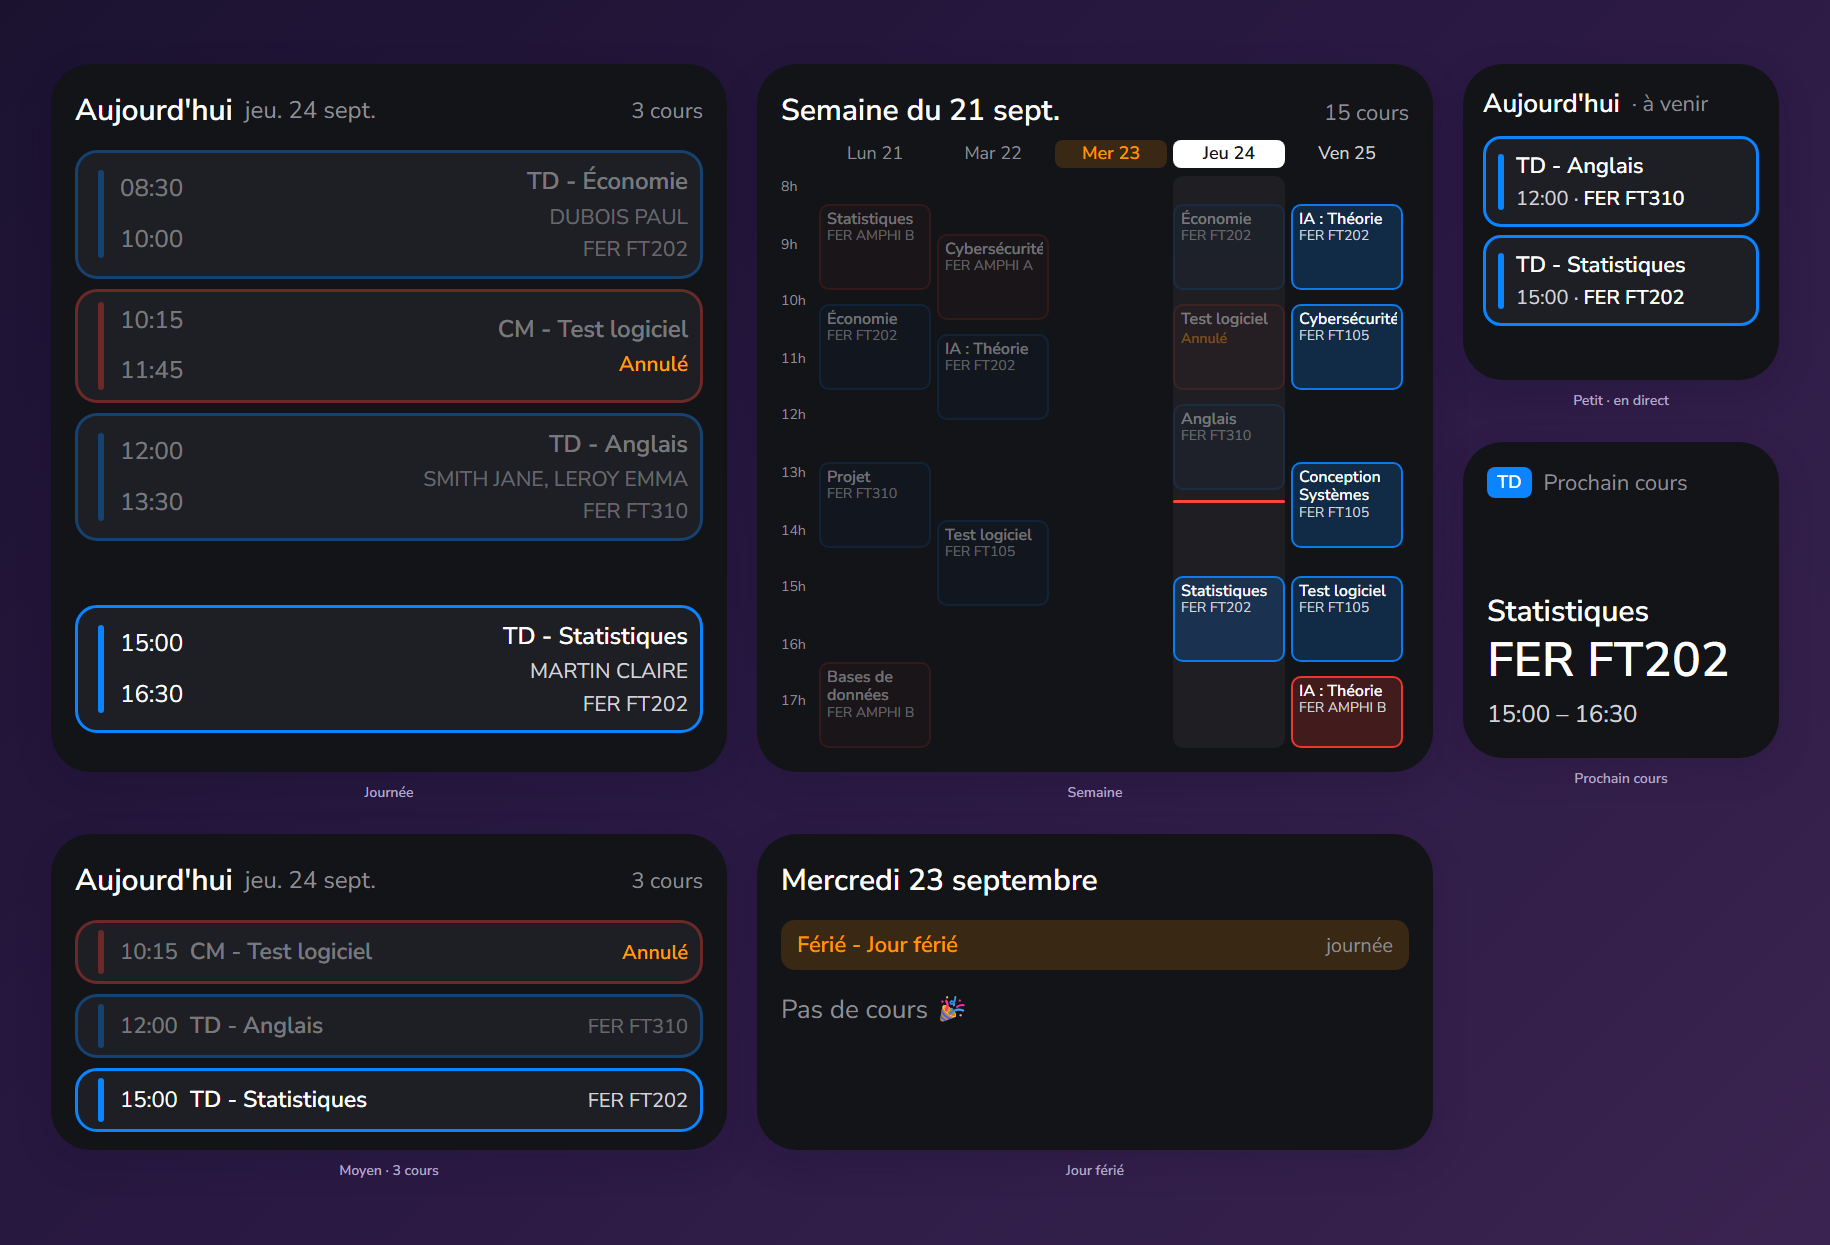
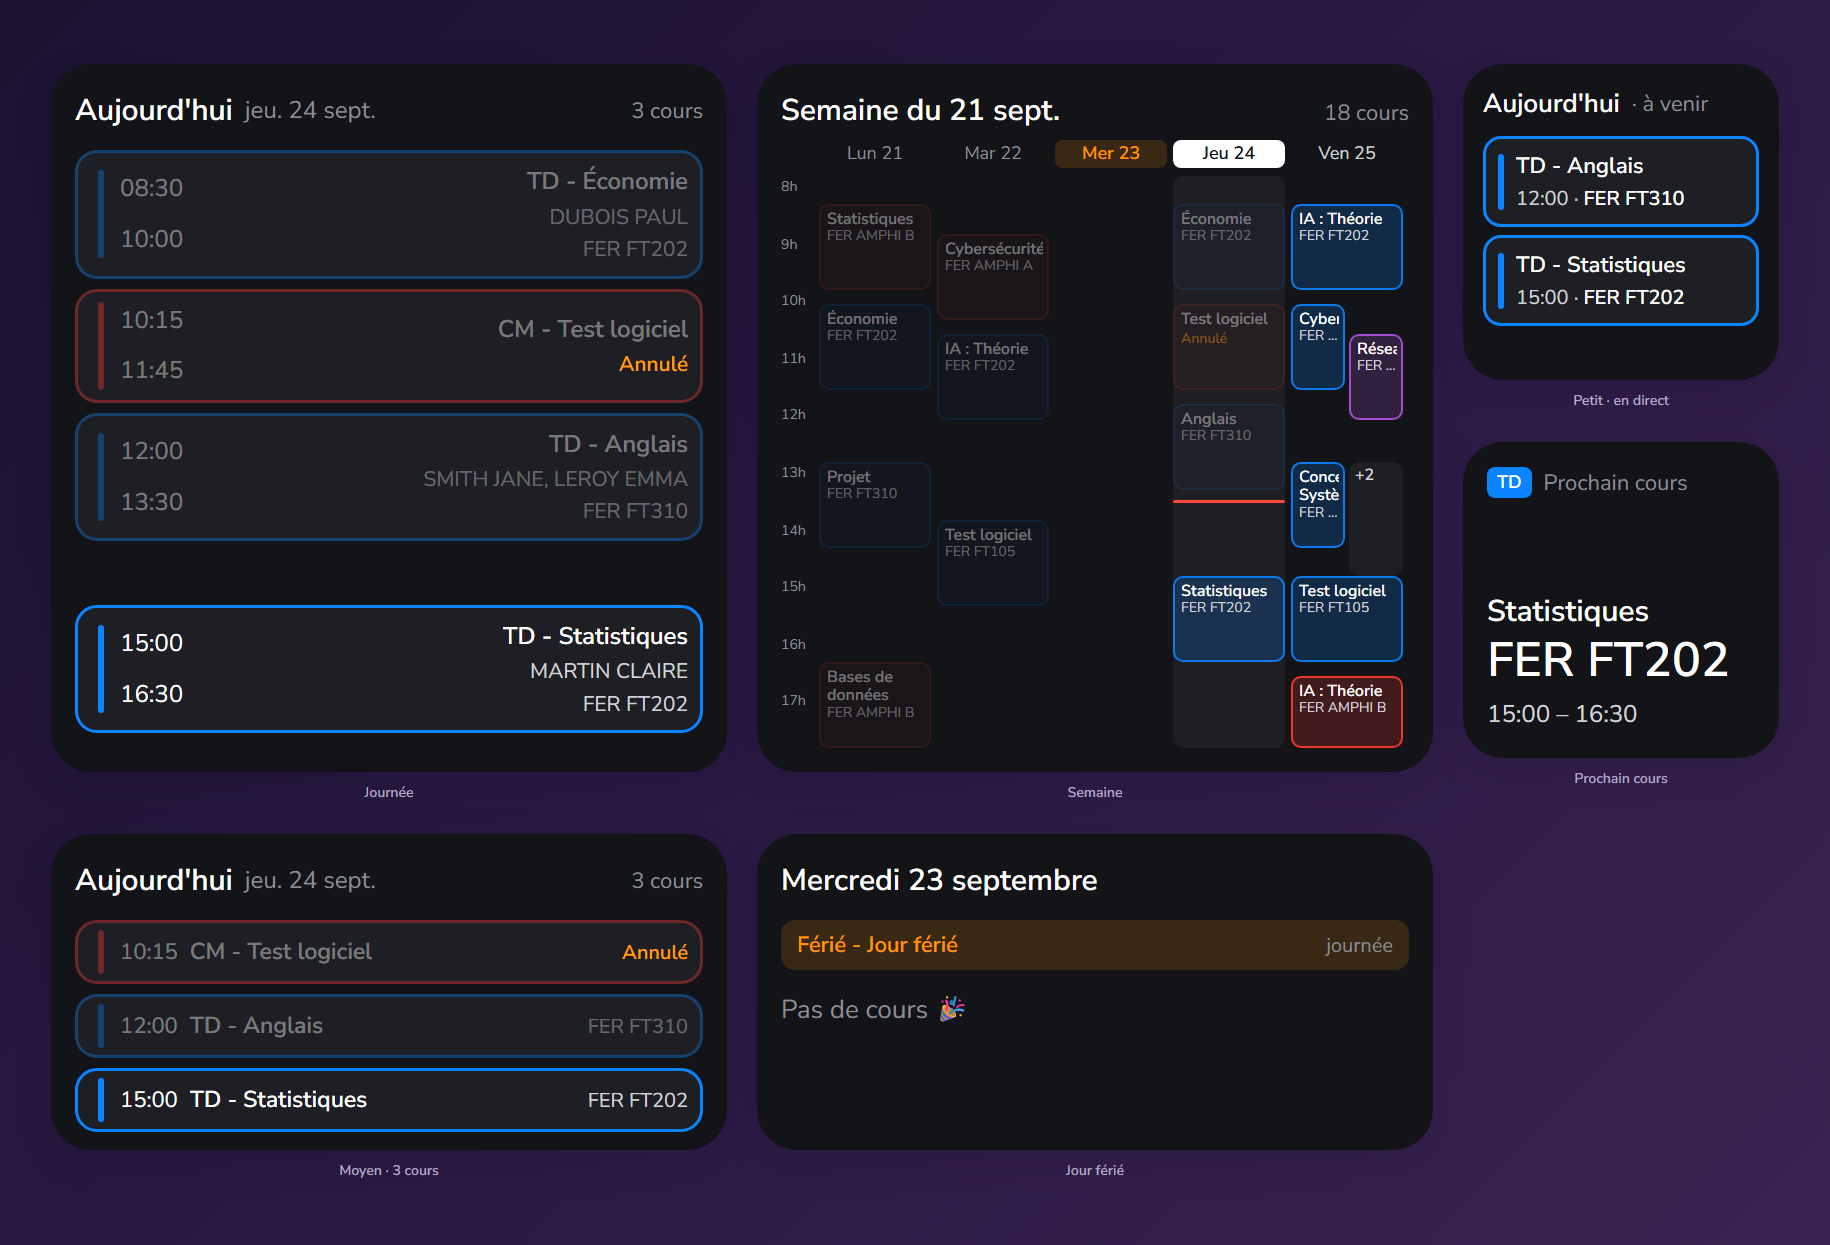
feat: cap simultaneous courses at 2 lanes

Changed region(s): [[0.7164, 0.3663, 0.7787, 0.4578], [0.7164, 0.2442, 0.7787, 0.3357]]

diff --git a/docs/preview.html b/docs/preview.html
@@ -198,7 +198,8 @@
   .block .t { font-weight: 600; font-size: calc(8 * var(--u)); color: var(--text); line-height: 1.15;
                display: -webkit-box; -webkit-box-orient: vertical; -webkit-line-clamp: 2; overflow: hidden; }
   .block.live .t { color: var(--now); }
-  .block .r { font-size: calc(7 * var(--u)); color: var(--sub); line-height: 1.2; }
+  .block .r { font-size: calc(7 * var(--u)); color: var(--sub); line-height: 1.2;
+               white-space: nowrap; overflow: hidden; text-overflow: ellipsis; }
   .block .cancelled { font-weight: 600; font-size: calc(7 * var(--u)); color: var(--cancel); }
   .block.done { opacity: 0.4; }
   .now-line { position: absolute; left: 0; right: 0; height: calc(1.5 * var(--u)); border-radius: calc(0.75 * var(--u)); background: var(--now-line); }
@@ -294,7 +295,10 @@
     "Ven 25": [
       { cat: "TD", mod: "IA : Théorie",      start: "08:30", end: "10:00", room: "FER FT202" },
       { cat: "TD", mod: "Cybersécurité",     start: "10:15", end: "11:45", room: "FER FT105" },
+      { cat: "TP", mod: "Réseaux",           start: "10:45", end: "12:15", room: "FER FT310" },   // simultané : côte à côte
       { cat: "TD", mod: "Conception Systèmes", start: "13:00", end: "14:30", room: "FER FT105" },
+      { cat: "TP", mod: "Projet",            start: "13:00", end: "14:30", room: "FER FT310" },   // 3 cours simultanés : 1 + « +2 »
+      { cat: "Examen", mod: "Anglais",       start: "13:30", end: "15:00", room: "FER AMPHI A" },
       { cat: "TD", mod: "Test logiciel",     start: "15:00", end: "16:30", room: "FER FT105" },
       { cat: "CM", mod: "IA : Théorie",      start: "16:45", end: "18:00", room: "FER AMPHI B" },
     ],
@@ -383,7 +387,8 @@
   function buildWeek(scope) {
     const w = widget(scope, "large");
     const head = el("div", "week-head");
-    head.append(el("span", "t", "Semaine du 21 sept."), el("span", "c", "15 cours"));
+    const count = Object.values(WEEK).flat().filter(e => !e.cancelled).length;
+    head.append(el("span", "t", "Semaine du 21 sept."), el("span", "c", `${count} cours`));
     w.append(head);
 
     const startMin = 8 * 60, endMin = 18 * 60;
@@ -418,9 +423,21 @@
     days.forEach(d => {
       const col = el("div", "col-day" + (d === TODAY ? " today" : ""));
       col.style.width = px(colW);
-      WEEK[d].forEach(e => {
-        const top = Math.round((mins(e.start) - startMin) * scale);
-        const h = Math.max(10, Math.round((mins(e.end) - startMin) * scale) - top);
+      const toY = t => Math.round((mins(t) - startMin) * scale);
+      layoutDay(WEEK[d], toY, gridH).forEach(g => {
+        const n = g.lanes.length + (g.more ? 1 : 0);
+        const laneW = Math.floor((colW - (n - 1) * LANE_GAP) / n);
+        g.lanes.forEach((lane, k) => lane.forEach(p => col.append(block(d, p.e, g.top + p.y, p.h, n > 1 ? k * (laneW + LANE_GAP) : null, laneW))));
+        if (g.more) {
+          const m = el("div", "block");
+          m.style.cssText = `top:${px(g.top)};height:${px(g.h)};left:${px((n - 1) * (laneW + LANE_GAP))};right:auto;width:${px(laneW)};background:var(--today-col)`;
+          const t = el("div", "t", `+${g.more}`); t.style.color = "var(--sub)";
+          m.append(t);
+          col.append(m);
+        }
+      });
+      // left : null → pleine largeur de la colonne ; sinon sous-colonne (cours simultanés)
+      function block(d, e, top, h, left, width) {
         const past = days.indexOf(d) < days.indexOf(TODAY) || (d === TODAY && mins(e.end) <= NOW);
         const live = d === TODAY && !e.cancelled && mins(e.start) <= NOW && mins(e.end) > NOW;
         const done = past || e.cancelled;
@@ -434,8 +451,9 @@
           if (e.cancelled) b.append(el("div", "cancelled", "Annulé"));
           else if (e.room) b.append(el("div", "r", e.room));
         }
-        col.append(b);
-      });
+        if (left !== null) { b.style.left = px(left); b.style.right = "auto"; b.style.width = px(width); }
+        return b;
+      }
       // Trait "maintenant" : seulement aujourd'hui, et seulement dans un trou
       if (d === TODAY) {
         const busy = WEEK[d].some(e => mins(e.start) <= NOW && mins(e.end) > NOW);
@@ -521,6 +539,49 @@
     });
     w.append(stack);
     return w;
+  }
+
+  // Placement des cours d'une journée — même algorithme que layoutDay dans celcat-widget.js :
+  // les cours simultanés partagent la colonne, « +N » au-delà de MAX_LANES.
+  const MAX_LANES = 2, LANE_GAP = 2;
+  function layoutDay(evts, y, gridH) {
+    const sorted = evts.slice().sort((a, b) => mins(a.start) - mins(b.start) || mins(b.end) - mins(a.end));
+    const out = [];
+    let cursor = 0;
+    for (let i = 0; i < sorted.length;) {
+      const group = [sorted[i]];
+      let end = sorted[i].end;
+      for (i++; i < sorted.length && mins(sorted[i].start) < mins(end); i++) {
+        group.push(sorted[i]);
+        if (mins(sorted[i].end) > mins(end)) end = sorted[i].end;
+      }
+      const top = Math.max(y(group[0].start), cursor);
+      const h = Math.min(Math.max(10, y(end) - top), gridH - top);
+      if (h <= 0) continue;
+      const lanes = [];
+      for (const e of group) {
+        let lane = lanes.find(l => mins(l[l.length - 1].end) <= mins(e.start));
+        if (!lane) lanes.push(lane = []);
+        lane.push(e);
+      }
+      let shown = lanes, more = 0;
+      if (lanes.length > MAX_LANES) {
+        shown = lanes.slice(0, MAX_LANES - 1);
+        more = lanes.slice(MAX_LANES - 1).reduce((n, l) => n + l.length, 0);
+      }
+      const placed = shown.map(lane => {
+        let c = 0;
+        return lane.map(e => {
+          const t = Math.max(y(e.start) - top, c);
+          const eh = Math.min(Math.max(10, y(e.end) - top - t), h - t);
+          c = t + Math.max(eh, 0);
+          return { e, y: t, h: eh };
+        }).filter(p => p.h > 0);
+      });
+      out.push({ top, h, lanes: placed, more });
+      cursor = top + h;
+    }
+    return out;
   }
 
   function hexA(hex, a) {

diff --git a/test/widget.test.js b/test/widget.test.js
@@ -676,10 +676,20 @@ const ok = (name, cond, extra = "") => { if (cond) { pass++; console.log("  OK  
        JSON.stringify(cols.map(c => [c.size && c.size.height, filled(c)])));
 
     err = await run([sim("211", 9, 0, 11, 0, "Cours A"), sim("212", 9, 0, 11, 0, "Cours B"),
+                     sim("213", 9, 30, 10, 30, "Cours C")]);
+    const t3 = global.texts();
+    ok("3 cours simultanés : 1 affiché + « +2 »", !err && t3.includes("Cours A") && t3.includes("+2") &&
+       !t3.includes("Cours B") && !t3.includes("Cours C"), (err && err.message) || JSON.stringify(t3));
+    const row3 = global.widget.all().find(i => i.kind === "stack" && !i.vertical &&
+                                             i.items.some(c => c.kind === "stack" && c.items.some(t => t.text === "+2")));
+    const lanes3 = row3 ? row3.items.filter(c => c.kind === "stack") : [];
+    ok("  2 colonnes seulement (lisibles)", lanes3.length === 2, lanes3.length + " colonnes");
+
+    err = await run([sim("211", 9, 0, 11, 0, "Cours A"), sim("212", 9, 0, 11, 0, "Cours B"),
                      sim("213", 9, 0, 11, 0, "Cours C"), sim("214", 9, 30, 10, 30, "Cours D")]);
     const t4 = global.texts();
-    ok("4 cours simultanés : 2 affichés + « +2 »", !err && t4.includes("+2") && t4.includes("Cours A") && t4.includes("Cours B") &&
-       !t4.includes("Cours C"), (err && err.message) || JSON.stringify(t4));
+    ok("4 cours simultanés : 1 affiché + « +3 »", !err && t4.includes("+3") && t4.includes("Cours A") &&
+       !t4.includes("Cours B"), (err && err.message) || JSON.stringify(t4));
     global.args.widgetParameter = "";
   }
 

diff --git a/celcat-demo.js b/celcat-demo.js
@@ -11,7 +11,7 @@
 //  Fichier généré par tools/build-demo.js : ne pas modifier à la main.
 // ============================================================
 
-const VERSION = "1.3.2";         // version de ce script (comparée à celle du dépôt)
+const VERSION = "1.3.3";         // version de ce script (comparée à celle du dépôt)
 const REPO = "https://github.com/Samito-05/cy-edt-widget";
 const REPO_RAW = "https://raw.githubusercontent.com/Samito-05/cy-edt-widget/main/celcat-widget.js";
 
@@ -996,8 +996,9 @@ function addWeekBlock(col, e, width, height, now) {
 }
 
 // Cours qui se chevauchent (deux groupes, TP en parallèle…) : côte à côte.
-// Au-delà de MAX_LANES colonnes, les dernières sont résumées en « +N ».
-const MAX_LANES = 3;
+// Au-delà de MAX_LANES colonnes, les dernières sont résumées en « +N » : à 3 colonnes,
+// chacune ne fait plus que ~17 pt et les noms deviennent illisibles.
+const MAX_LANES = 2;
 const LANE_GAP = 2;
 
 // Placement vertical des cours d'une journée, en points depuis le haut de la grille.

diff --git a/celcat-widget.js b/celcat-widget.js
@@ -17,7 +17,7 @@
 //  - Ajoute un widget Scriptable (grand conseillé) et choisis ce script.
 // ============================================================
 
-const VERSION = "1.3.2";         // version de ce script (comparée à celle du dépôt)
+const VERSION = "1.3.3";         // version de ce script (comparée à celle du dépôt)
 const REPO = "https://github.com/Samito-05/cy-edt-widget";
 const REPO_RAW = "https://raw.githubusercontent.com/Samito-05/cy-edt-widget/main/celcat-widget.js";
 
@@ -950,8 +950,9 @@ function addWeekBlock(col, e, width, height, now) {
 }
 
 // Cours qui se chevauchent (deux groupes, TP en parallèle…) : côte à côte.
-// Au-delà de MAX_LANES colonnes, les dernières sont résumées en « +N ».
-const MAX_LANES = 3;
+// Au-delà de MAX_LANES colonnes, les dernières sont résumées en « +N » : à 3 colonnes,
+// chacune ne fait plus que ~17 pt et les noms deviennent illisibles.
+const MAX_LANES = 2;
 const LANE_GAP = 2;
 
 // Placement vertical des cours d'une journée, en points depuis le haut de la grille.

diff --git a/README.md b/README.md
@@ -27,7 +27,7 @@ Tes cours directement sur l'écran d'accueil : horaires, salles, type de cours, 
 
 - **Vue du jour** — cours du jour (ou du prochain jour de cours), cartes sombres/claires avec bordure colorée par type : CM rouge, TD bleu, TP violet, examen orange. Le vert est réservé au cours en cours : une couleur verte envoyée par CELCAT est remplacée par du violet.
 - **Mode live** (petit widget) — chaque cours disparaît 30 min après son début pour laisser la place au suivant et à sa salle.
-- **Vue semaine** — planning de la semaine sur un grand widget (trait rouge sur l'heure courante), avec possibilité d'afficher les semaines suivantes. Les cours simultanés (groupes, TP en parallèle) s'affichent côte à côte ; au-delà de 3, un bloc « +N » résume le reste.
+- **Vue semaine** — planning de la semaine sur un grand widget (trait rouge sur l'heure courante), avec possibilité d'afficher les semaines suivantes. Les cours simultanés (groupes, TP en parallèle) s'affichent côte à côte ; au-delà de 2, le premier reste affiché et un bloc « +N » résume les autres (la vue jour les montre tous).
 - **Prochain cours** — seulement le cours suivant et sa salle ; c'est aussi l'affichage automatique sur l'écran verrouillé.
 - **Cours annulés** grisés au lieu d'être masqués ; **fériés et vacances** affichés en bandeau, sans horaire ni rappel.
 - **Notifications** si l'emploi du temps change (salle, horaire, annulation, ajout) sur les 7 prochains jours.
